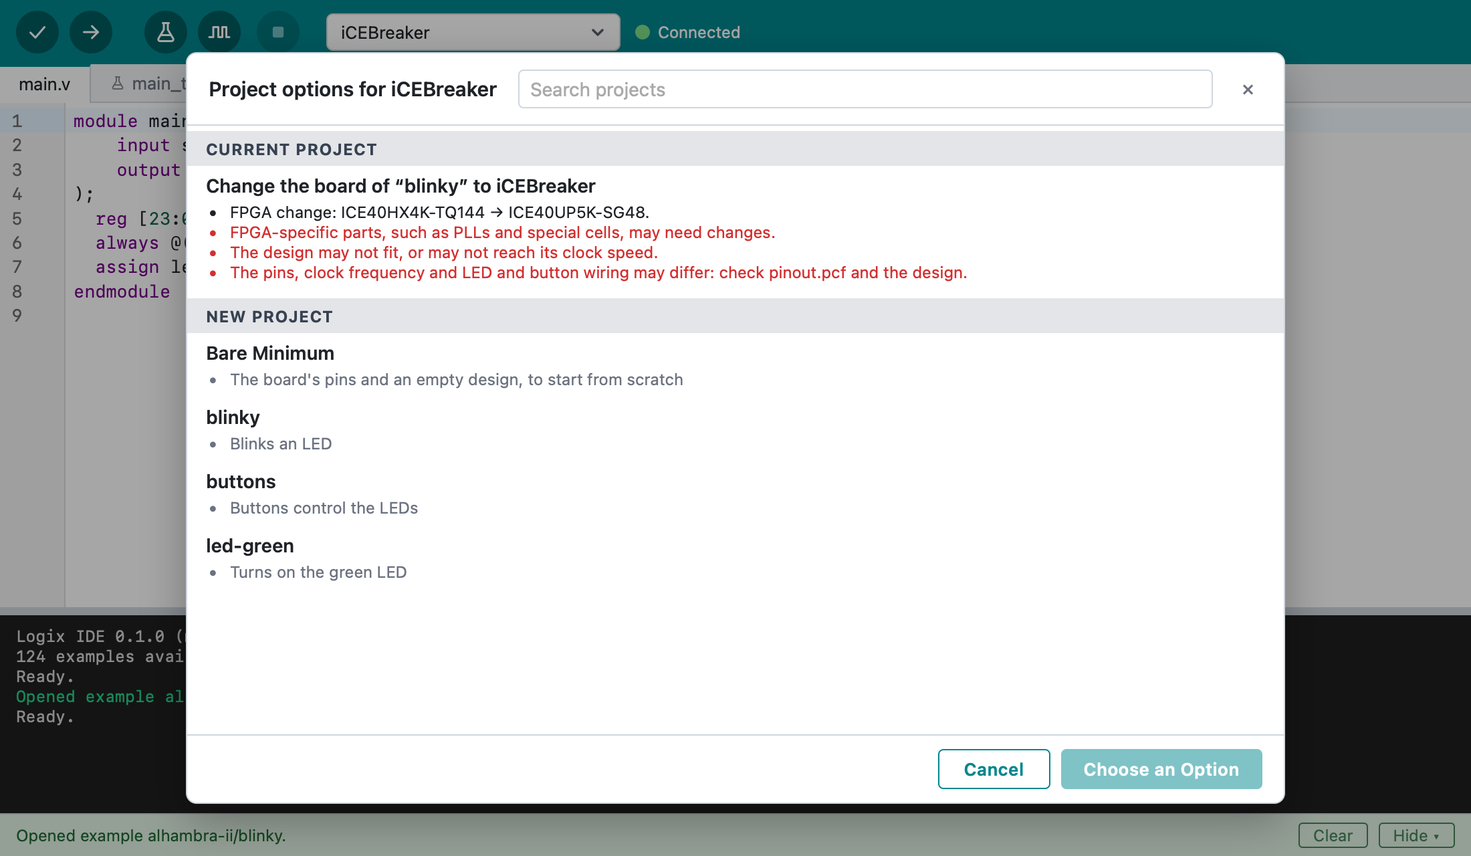
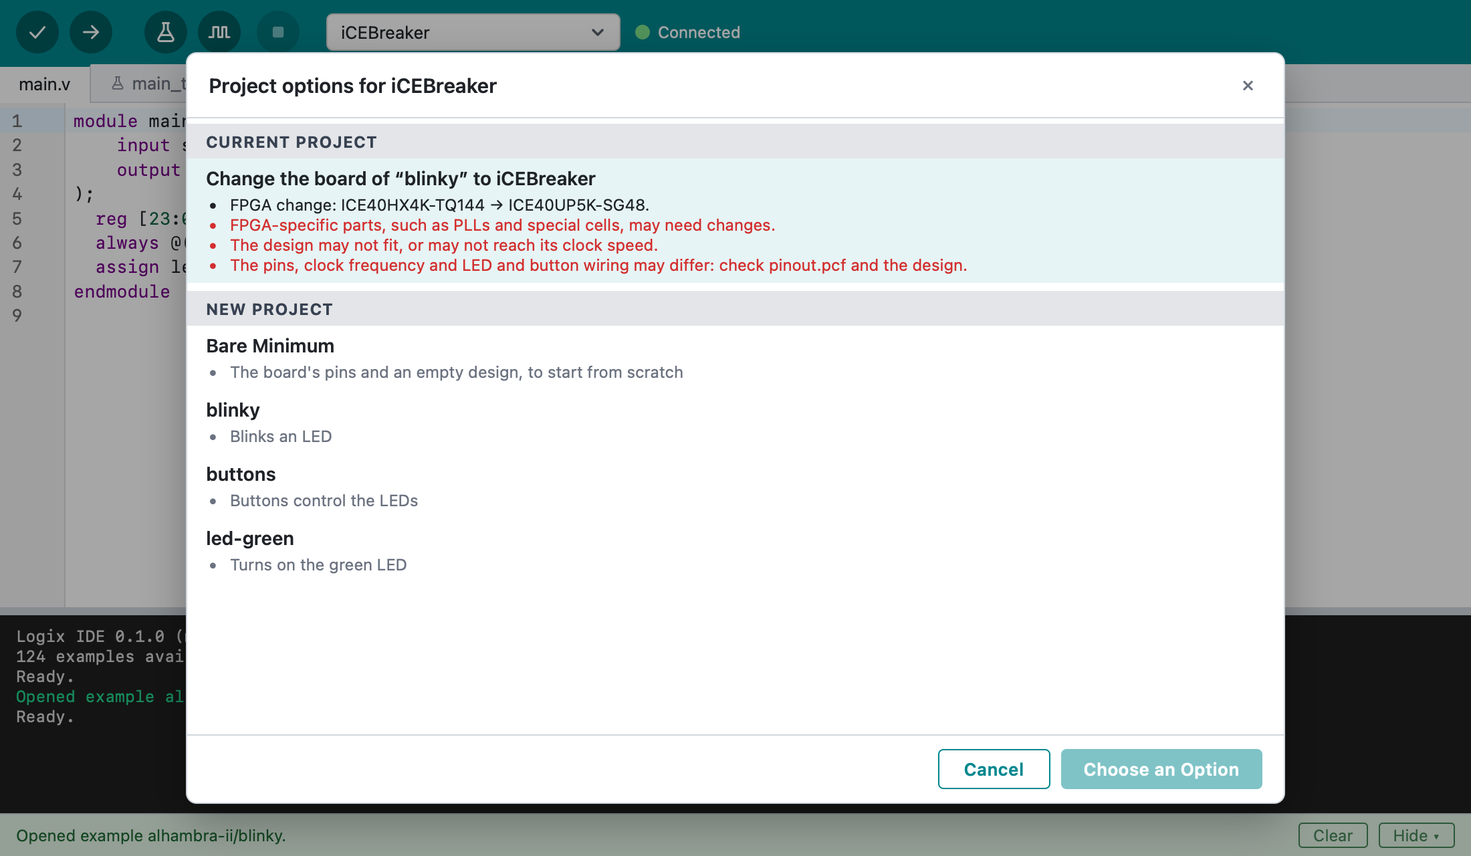
Project options: no search; example notes always shown
Project options have few choices, so no search field. An example's
notes, such as "Not yet tried on the board.", now always show, not only
once it's selected: they matter before choosing (the user's requests).

Changed region(s): [[0.1236, 0.0938, 0.8964, 0.6875]]

diff --git a/ui/src/lib/ExamplesDialog.svelte b/ui/src/lib/ExamplesDialog.svelte
@@ -208,15 +208,20 @@
       <h2>
         {onlyBoard ? `Project options for ${onlyBoardName}` : "Examples"}
       </h2>
-      <!-- svelte-ignore a11y_autofocus -->
-      <input
-        type="search"
-        placeholder={onlyBoard ? "Search projects" : "Search boards and examples"}
-        bind:value={query}
-        spellcheck="false"
-        autocomplete="off"
-        autofocus
-      />
+      {#if onlyBoard}
+        <!-- Project options are few: no search (the user's decision). -->
+        <span class="header-space"></span>
+      {:else}
+        <!-- svelte-ignore a11y_autofocus -->
+        <input
+          type="search"
+          placeholder="Search boards and examples"
+          bind:value={query}
+          spellcheck="false"
+          autocomplete="off"
+          autofocus
+        />
+      {/if}
       <button
         class="close"
         title={onlyBoard ? "Cancel: keep the board as it was" : "Close"}
@@ -318,14 +323,13 @@
                 ondblclick={() => onOpen(ex)}
               >
                 <span class="example-name">{ex.name}</span>
-                <!-- The summary, and the notes of the selected example: a
-                     bullet each (spans as list items: a button can't hold
-                     a list). -->
+                <!-- The summary and the notes, a bullet each, always shown
+                     (a note such as "Not yet tried on the board." matters
+                     before choosing; spans as list items: a button can't
+                     hold a list). -->
                 <span class="example-desc note">
                   <span class="point">{ex.summary}</span>
-                  {#if selectedExample !== null && key(ex) === key(selectedExample)}
-                    {#each ex.notes as n, i (i)}<span class="point">{n}</span>{/each}
-                  {/if}
+                  {#each ex.notes as n, i (i)}<span class="point">{n}</span>{/each}
                 </span>
               </button>
             </li>
@@ -541,6 +545,9 @@
   .note .point {
     display: list-item;
     list-style: disc;
+  }
+  .header-space {
+    flex: 1;
   }
   /* The first point: the change itself. */
   .note .point.change {

diff --git a/ui/e2e/app.e2e.ts b/ui/e2e/app.e2e.ts
@@ -351,6 +351,8 @@ test("changing the board offers project options: the current project first", asy
   const dialog = page.getByRole("dialog", { name: "Examples" });
   await expect(dialog.getByRole("heading")).toHaveText("Project options for iCEBreaker");
   await expect(dialog.getByRole("list", { name: "Boards" })).toHaveCount(0);
+  // Few choices: no search.
+  await expect(dialog.getByRole("searchbox")).toHaveCount(0);
   // The current project, with what the change means; nothing is selected
   // until the user chooses.
   const current = dialog.getByRole("button", { name: /^Change the board of “blinky” to iCEBreaker/ });
@@ -959,19 +961,17 @@ test("Board Info shows the board's FPGA and the boards with the same FPGA", asyn
   await expect(boardButton(page)).toHaveText(/Kéfir I/);
 });
 
-test("examples show their summary, and the selected one its notes", async ({ page }) => {
+test("examples show their summary and notes, selected or not", async ({ page }) => {
   await page.goto("/");
   await expect(output(page)).toContainText("Ready.");
   await page.getByRole("button", { name: "From Example…" }).click();
   const dialog = page.getByRole("dialog", { name: "Examples" });
   await dialog.getByRole("searchbox").fill("icenode");
-  // The board's only example is selected already: its note shows.
   const blinky = dialog.getByRole("button", { name: /^blinky/ });
   await expect(blinky.locator(".point")).toHaveText(["Blinks an LED", "Not yet tried on the board."]);
-  // Another one selected: only the summary.
+  // Not selected: the note still shows.
   await dialog.getByRole("button", { name: /^Bare Minimum/ }).click();
-  await expect(blinky.locator(".point")).toHaveText(["Blinks an LED"]);
-  await blinky.click();
+  await expect(blinky).not.toHaveClass(/selected/);
   await expect(blinky.locator(".point")).toHaveText(["Blinks an LED", "Not yet tried on the board."]);
 });
 

diff --git a/CLAUDE.md b/CLAUDE.md
@@ -134,7 +134,7 @@ Don't run `npm run tauri build` locally; installers come from the GitHub workflo
 - `ui/src/lib/Editor.svelte`: the CodeMirror editor. It keeps one `EditorState` per file (`reset`, `show`, `add`, `rename`, `remove`), so each tab keeps its own undo history. Edits are reported through `onChange(file, text)`.
 - `ui/src/lib/workingProject.ts`: the in-memory project the UI edits (files with saved/current text, removed files, structure changes) and the unsaved-changes logic. Pure functions, unit-tested.
 - `src-tauri/src/project.rs`: the project model on disk (load, save with removed files, Save As with copying of other contents, file name rules). Plain Rust with tests, no Tauri. It validates every name the UI sends, so a bad name can't write outside the project folder.
-- **Examples** (`examples/<board>/<name>/`, 124 for the engine's boards): each is a Logix project, its files plus a `logix-ide.toml` with `board`, `summary` (what it does, one line) and optional `notes` (a list of lines, such as "Not yet tried on the board."; the user's model, 2026-11-06, replacing a single `description`), only for the Examples dialog, where the summary shows as a bullet under the name and the notes as more bullets under the selected example only (search matches both); saving an opened example writes a fresh project file. They are the baseline, Logix's own and maintained here by hand (there is no importer): testbenches report failures with a one-line `EXPECT_EQ` that calls `$error`, as the engine recommends. Xilinx pin files (`.xdc`) also constrain the board clock, under its `# Clock (<n>MHz).` line, with `create_clock -period <ns> [get_ports {<clock>}]` (period with three decimals, no `-name`), so nextpnr-xilinx times it at the board's frequency instead of its default 12 MHz and doesn't warn that the clock has no constraint (as Apio's examples since FPGAwars/apio-definitions#70, for FPGAwars/apio#1188). The `alinx-ax7035` blinky came in through a scratch copy of Apio's examples whose `apio.ini` for it kept only the board and top module (Apio's has two envs that only change the blink rate; `main.v`'s default is kept). **Hand-written blinkies** for boards without an Apio example (`arice1`, `icenode`, `ecp5-mini-12`, `ecp5-mini-25`, `thetamachines-eth4k`, `sipeed-tang-primer-20k`): written for Logix in the examples' style (`main.v`, `main_tb.v`, `main_tb.gtkw`, pin file; the UP5K boards' RGB LED through `rgb_driver.v` with `SB_RGBA_DRV`), from each board's own published pins (ARiCE: `pcossutta/arise` example and BOM, 12 MHz; ICENode: `Lundal-ING/ICENode` `hardware/icenode.pcf`, 12 MHz; ECP5-Mini: `joshajohnson/ecp5-mini-projects` r0.2 LPF, 16 MHz clock B9, LED B2; ETH4K: its KiCad schematic labels, 25 MHz on 52, LED1 on 41 (its `.net` file is stale); Tang Primer 20K Lite: no user LEDs, so it blinks a segment of an iCEBreaker 7-segment PMOD on the top-right PMOD, pins as in Apio's example, written anew since Apio's carries a GPL header). Not tried on hardware, so their notes say "Not yet tried on the board." (as do the examples imported as untested) and `main.v` says so; drop that once a user confirms one. `soan-papdi-mini` has no example: no pinout is published (TODO(revisit)). Examples for boards the engine doesn't offer are hidden (`catalog` in `commands.rs`; `hidden` in the list, normally 0). The board and example lists are cached in `AppState.catalog` for the run.
+- **Examples** (`examples/<board>/<name>/`, 124 for the engine's boards): each is a Logix project, its files plus a `logix-ide.toml` with `board`, `summary` (what it does, one line) and optional `notes` (a list of lines, such as "Not yet tried on the board."; the user's model, 2026-11-06, replacing a single `description`), only for the Examples dialog, where the summary shows as a bullet under the name and the notes as more bullets, always (the user's decision: a note such as "Not yet tried on the board." matters before choosing; search matches both); saving an opened example writes a fresh project file. They are the baseline, Logix's own and maintained here by hand (there is no importer): testbenches report failures with a one-line `EXPECT_EQ` that calls `$error`, as the engine recommends. Xilinx pin files (`.xdc`) also constrain the board clock, under its `# Clock (<n>MHz).` line, with `create_clock -period <ns> [get_ports {<clock>}]` (period with three decimals, no `-name`), so nextpnr-xilinx times it at the board's frequency instead of its default 12 MHz and doesn't warn that the clock has no constraint (as Apio's examples since FPGAwars/apio-definitions#70, for FPGAwars/apio#1188). The `alinx-ax7035` blinky came in through a scratch copy of Apio's examples whose `apio.ini` for it kept only the board and top module (Apio's has two envs that only change the blink rate; `main.v`'s default is kept). **Hand-written blinkies** for boards without an Apio example (`arice1`, `icenode`, `ecp5-mini-12`, `ecp5-mini-25`, `thetamachines-eth4k`, `sipeed-tang-primer-20k`): written for Logix in the examples' style (`main.v`, `main_tb.v`, `main_tb.gtkw`, pin file; the UP5K boards' RGB LED through `rgb_driver.v` with `SB_RGBA_DRV`), from each board's own published pins (ARiCE: `pcossutta/arise` example and BOM, 12 MHz; ICENode: `Lundal-ING/ICENode` `hardware/icenode.pcf`, 12 MHz; ECP5-Mini: `joshajohnson/ecp5-mini-projects` r0.2 LPF, 16 MHz clock B9, LED B2; ETH4K: its KiCad schematic labels, 25 MHz on 52, LED1 on 41 (its `.net` file is stale); Tang Primer 20K Lite: no user LEDs, so it blinks a segment of an iCEBreaker 7-segment PMOD on the top-right PMOD, pins as in Apio's example, written anew since Apio's carries a GPL header). Not tried on hardware, so their notes say "Not yet tried on the board." (as do the examples imported as untested) and `main.v` says so; drop that once a user confirms one. `soan-papdi-mini` has no example: no pinout is published (TODO(revisit)). Examples for boards the engine doesn't offer are hidden (`catalog` in `commands.rs`; `hidden` in the list, normally 0). The board and example lists are cached in `AppState.catalog` for the run.
 - **Bare Minimum** (as Arduino's File > Examples > 01.Basics > BareMinimum): the first entry of every board in the Examples dialog (`BARE_MINIMUM` in `ui/src/lib/examples.ts`; boards without examples are listed for it). `open_bare_minimum` takes the board's starter example and `src-tauri/src/bare.rs` keeps only its pin file plus a `main.v` with the starter's ports and `assign <output> = 0;`. Why not an empty `main` with the pin file: the examples' pin files list only the pins that example uses, iCE40 rejects a port without a pin (`--pcf-allow-unconstrained`), and an empty design fails with "Failed to autodetect top module". A board without a starter gets `bare::NO_PINS_MAIN` (placeholder ports and a note to add a pin file); `new_project` gives the same Bare Minimum. A unit test checks every starter gives one; `real_examples_build` builds them.
 - **Opening an example** gives an unsaved project (`dir: null`) with `templateDir` set to the folder it was written to (`~/.logix/example/`, replaced by the next example) and the board set. The first save asks for a location and copies the example's other files (e.g. `main_tb.gtkw`) from `templateDir`; its project file and hidden files are skipped. UI: `ui/src/lib/ExamplesDialog.svelte`, with search and grouping in `ui/src/lib/examples.ts`.
 - **Verify / Upload** (toolbar, Cmd+R / Cmd+U, Project menu): `run_task` builds from the project's **in-memory** files (unsaved edits included) in `~/.logix/build/`. `src-tauri/src/build_dir.rs` (plain Rust, tested) fills that folder with the files and the other contents of the project folder (or example template), subfolders included (the engine builds only the files Logix lists), except nested projects (folders with a project file, `project::is_project_dir`; `CopyMode::Build`). The folder is reused for the same project (key = project folder) so `_build/` (the engine's build folder) speeds up repeated builds; another project starts from an empty folder. Every task runs on the engine (`engine::run_task`, `engine/task.rs`) with that folder as `source_folder`, `_build` as `build_folder` (it needs "build" in one of its last two names; a `logix` subfolder under it was dropped as unneeded, the user's decision), top module `main`, the project's `.v`/`.sv` files minus testbenches as `source_files` (include files are found by the engine), and the pin file as `constraint_file`: the first one of the board's kind (`Board.pin_extension`, from the engine's `get_catalog` architectures: `.pcf` iCE40, `.lpf` ECP5, `.cst` Gowin, `.xdc` Xilinx, any case; `build_dir::constraint_file`), else the first pin file of any kind. The engine refuses a pin file of another family's kind (each family's place-and-route tool reads only its own format and takes the format from its option, not the file name, so before this check a PCF renamed to `.lpf` built on iCE40 as if nothing were wrong); `friendly` turns that error into "The pin file pinout.lpf is the wrong kind for this board. … rename it to pinout.pcf." No pin file: the error `NO_CONSTRAINT_FILE`, also explained by `friendly`. A board that isn't in the engine's catalog is refused with a plain message before anything runs. Only one task runs at a time (`AppState.task`).
@@ -249,7 +249,7 @@ Use the current major versions of GitHub's actions (`actions/checkout`, `setup-n
 - **Reopening the last project**: `src-tauri/src/settings.rs` keeps IDE settings in `~/.logix/settings.json` (unknown fields preserved). Opening, saving or Save As records the project folder; at startup the UI calls `open_last_project` and shows the start screen if there's none or it can't be loaded (with a console note). File > Close Project clears it (`close_project`; the recent projects stay), so the next start shows the start screen rather than the closed project.
 - **Always a board**: the toolbar always shows a board, with or without a project: the project's, or else `homeBoard` (the last chosen, `last_board`: `lastBoard` in `settings.json`, else `examples::DEFAULT_BOARD`, `alhambra-ii`, FPGAwars' board). Picking one with no project sets `homeBoard` and `lastBoard`; New Project and the examples use it. Only a project opened from disk without a board shows "Select board…".
 - **No project and the start screen** (decided): with no project open (`project === null`: the first start, no last project, or after File > Close Project), the editor area shows the start screen (`welcome` in `App.svelte`, labelled "Start"): "Welcome to Logix IDE", the motto, "Getting the FPGA tools ready…" or a pointer to the setup error while the tools aren't ready, three cards in a row (New Project, Open Project…, From Example…; each an accent-colored line icon, a title and a one-line hint, raised on hover), and up to 5 recent projects (reloaded when the screen appears and on the `recents-changed` menu event that Clear Menu sends; rows with a folder icon, the folder name and, dimmed, its parent path). The screen is top-aligned, with the same space (`--welcome-gap`, 56 px) above the title and between the motto and the cards, and 40 px above the recent projects; the cards are compact (156 px wide). Tabs and editor are hidden (not unmounted), and Verify etc. are disabled. No "Start with Blinky" button (removed, the user's decision): examples are one click away under From Example…. Why a start screen: "New" giving someone else's design (blinky) was confusing, and a single-window app needs a state without a project to close to. Close Project asks to save first (`confirmLeave`), keeps the board as `homeBoard`, clears `lastProject` (`close_project`, so a restart stays on the start screen), and ends with "Closed the project." and "Ready.".
-- **New projects** (File > New Project > Empty Project, or the start screen's New Project): `new_project(board)` gives the board's Bare Minimum (its pin file and a `main.v` that builds and does nothing yet; see Bare Minimum), as Arduino's File > New gives an empty sketch, named "untitled"; boards without a starter get the no-pins `main.v`. It needs no tools (the examples are built in). Startup reopens the last project, or else shows the start screen; it never makes a project by itself. Changing the board never replaces files (as in Arduino): `setBoard` holds it in `pendingBoard` and opens "Project options for <board>" (the Examples dialog for that board only, `onlyBoard`; the user's design, 2026-11-06, replacing "Keep Current Files" and a vague "Open"), one list of choices: "Current project" (`Change the board of "<project>" to <board>`, with a note from `boardChangeNote` in `boards.ts`: 2 to 4 bullet points (the user's design, 2026-11-06: one list, no groups), the first naming the change at its highest level, each including the ones below ("Board change, same FPGA (<part>).", "FPGA change: <part> → <part>." or "Architecture change: <family> → <family>."; normal text), the rest its implications, all in red (`--error-mark`; the user's decision: every implication is a possible problem): the pins, the clock frequency, active-low LEDs and buttons, FPGA-specific parts such as PLLs, the design's fit and speed, and for another family "Needs a .lpf pin file instead of pinout.pcf, with this board's pins." and "Probably significant changes: …" (the user's wording); the pin file is `projectPinFile`; spans styled as list items, since a button can't hold a list. Board clock frequencies aren't in the engine's catalog yet, so the board change can't say "12 MHz → 25 MHz" (a later engine catalog addition)), "Recent projects": the recent projects made for that board (not the open one; `recent_projects_for_board`, which reads only each project file's board with `project::board_of`), and "New project" (Bare Minimum and the board's examples; it was "Example projects": the user's decision, so the headings say what happens to the project). Why only that board's projects: a project brings its own board, so offering others would undo the board just picked. The main button says what the selected choice does: "Change the Board" (applies the board to the project, `closeExamples(true)`), "Open Project" (as Open Recent, `openBoardRecent`), or "New Project" (an example or Bare Minimum, a new unsaved project); double-click does the same. Nothing is selected when it opens, not even a board's only example (the user's decision: changing the board, especially to another FPGA or family, must be a choice, not a default); the main button reads "Choose an Option", disabled, until one is, and Enter does nothing. Section headings ("Current project", "Recent projects", "New project") use the board picker's group heading band (`--group-bg`, `--group-fg`) so they stand out from the entries. Cancel, Esc and ✕ cancel the board change (`closeExamples(false)`). In this dialog the selection's green background (the app's convention) covers only the choice's title, a band across the row, so its note below stays readable (the user's request); a recent project, one line, is filled whole. The dialog ignores keys until after the event that opened it (`armed`): the Enter that picks a board in the board list reached it and applied the default choice at once. Opening an example or project brings its own board, so "Save changes?" is only asked about real edits. A missing pin file is explained in plain words (`friendly` in `ui/src/lib/tasks.ts`).
+- **New projects** (File > New Project > Empty Project, or the start screen's New Project): `new_project(board)` gives the board's Bare Minimum (its pin file and a `main.v` that builds and does nothing yet; see Bare Minimum), as Arduino's File > New gives an empty sketch, named "untitled"; boards without a starter get the no-pins `main.v`. It needs no tools (the examples are built in). Startup reopens the last project, or else shows the start screen; it never makes a project by itself. Changing the board never replaces files (as in Arduino): `setBoard` holds it in `pendingBoard` and opens "Project options for <board>" (the Examples dialog for that board only, `onlyBoard`; the user's design, 2026-11-06, replacing "Keep Current Files" and a vague "Open"), one list of choices: "Current project" (`Change the board of "<project>" to <board>`, with a note from `boardChangeNote` in `boards.ts`: 2 to 4 bullet points (the user's design, 2026-11-06: one list, no groups), the first naming the change at its highest level, each including the ones below ("Board change, same FPGA (<part>).", "FPGA change: <part> → <part>." or "Architecture change: <family> → <family>."; normal text), the rest its implications, all in red (`--error-mark`; the user's decision: every implication is a possible problem): the pins, the clock frequency, active-low LEDs and buttons, FPGA-specific parts such as PLLs, the design's fit and speed, and for another family "Needs a .lpf pin file instead of pinout.pcf, with this board's pins." and "Probably significant changes: …" (the user's wording); the pin file is `projectPinFile`; spans styled as list items, since a button can't hold a list. Board clock frequencies aren't in the engine's catalog yet, so the board change can't say "12 MHz → 25 MHz" (a later engine catalog addition)), "Recent projects": the recent projects made for that board (not the open one; `recent_projects_for_board`, which reads only each project file's board with `project::board_of`), and "New project" (Bare Minimum and the board's examples; it was "Example projects": the user's decision, so the headings say what happens to the project). Why only that board's projects: a project brings its own board, so offering others would undo the board just picked. The main button says what the selected choice does: "Change the Board" (applies the board to the project, `closeExamples(true)`), "Open Project" (as Open Recent, `openBoardRecent`), or "New Project" (an example or Bare Minimum, a new unsaved project); double-click does the same. Nothing is selected when it opens, not even a board's only example (the user's decision: changing the board, especially to another FPGA or family, must be a choice, not a default); the main button reads "Choose an Option", disabled, until one is, and Enter does nothing. It has no search field (few choices; the user's decision). Section headings ("Current project", "Recent projects", "New project") use the board picker's group heading band (`--group-bg`, `--group-fg`) so they stand out from the entries. Cancel, Esc and ✕ cancel the board change (`closeExamples(false)`). In this dialog the selection's green background (the app's convention) covers only the choice's title, a band across the row, so its note below stays readable (the user's request); a recent project, one line, is filled whole. The dialog ignores keys until after the event that opened it (`armed`): the Enter that picks a board in the board list reached it and applied the default choice at once. Opening an example or project brings its own board, so "Save changes?" is only asked about real edits. A missing pin file is explained in plain words (`friendly` in `ui/src/lib/tasks.ts`).
 - **Board picker** (`ui/src/lib/BoardPicker.svelte`, like Arduino IDE 2's board selector; replaced a native `<select>`, which can't report picking the current board): a button with the board's name opens a searchable list (combobox + listbox, arrows/Page/Enter/Esc), "Recently used" first (the boards picked most recently, newest first, up to 5: `recentBoards` in `settings.json`, updated by `set_last_board`, which returns them, and read by `recent_boards`; the user's request, 2026-11-06: it isn't based on guesses, unlike the dropped connected-device groups), then all boards grouped by FPGA architecture (`Board.arch` from the engine catalog's FPGA `architecture`, with its `archLabel` and `archOrder` from the catalog's `architectures`, such as "Lattice iCE40" first; families the engine doesn't describe come last, by ID; `groupByArch` in `ui/src/lib/boards.ts`). Each entry's hover hint names its FPGA ("FPGA: Lattice iCE40 ICE40HX4K-TQ144 (8k)", `fpgaLabel`), and the search also matches the FPGA's part number and ID, though they aren't shown (the user's request, 2026-11-06: to find a board like theirs). Picking any board, the current one included, calls `setBoard`. The selected board is marked with a small accent-colored dot, not a check mark, which looked like the groups' arrows (the user's request). Group headings use their own theme colors, `--group-bg` and `--group-fg` in `ui/src/app.css` (a gray a little darker than the list, light and dark: the user preferred gray to the earlier teal tint), so they stand apart from the entries, and long titles wrap left aligned with the count on the right (the user's request). "Recently used" is collapsible too: it starts expanded, and its collapsed state is kept only in memory (`recentCollapsed`). The project's own boards (custom-boards.json) are in their architecture's group, first, and never in "Recently used" (other projects don't have them). Architecture groups are collapsible in the picker and in the Examples dialog's boards column (`groupByArch`); the expanded ones are shared by both and remembered in `localStorage` (`ui/src/lib/expandedGroups.svelte.ts`, all collapsed by default), opening a list expands the current board's group, and a search shows matches in all groups.
 - **Board**: chosen in the toolbar's board picker and stored in `logix-ide.toml`. Changing it offers the board's examples (see New projects) and, if the files are kept, marks the project as unsaved.
 - `src-tauri/src/menu.rs`: native menu bar. New/Open/Save/Save As are emitted to the UI as `menu` events; Close and Quit go through the window-close flow. File dialogs and the "Save changes?" prompt run in Rust (`tauri-plugin-dialog`), so the UI needs no dialog or file system permissions.
